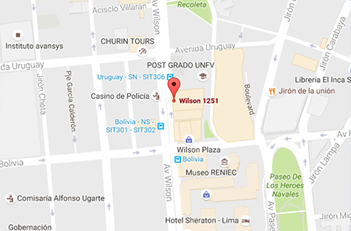
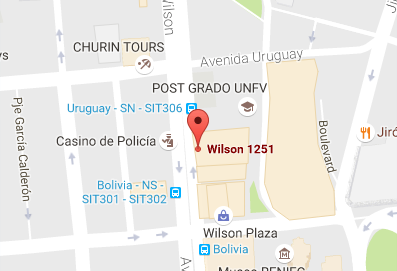
cambios...
cambios...

diff --git a/src/presentacion/VentanaContactoTienda.java b/src/presentacion/VentanaContactoTienda.java
@@ -27,9 +27,10 @@ public class VentanaContactoTienda extends JDialog {
 	private String rutaReporte;
     
 	
-	public VentanaContactoTienda(VentanaDetallesAsistente miVentanaDetallesAsistente, boolean modal,String ruta)  {
+	public VentanaContactoTienda(VentanaDetallesAsistente miVentanaDetallesAsistente, boolean modal,String ruta, String correoTienda)  {
 		
 		super(miVentanaDetallesAsistente, modal);
+		setTitle("Contacto Tienda");
 		setResizable(false);
 		
 		this.rutaReporte = ruta;
@@ -47,6 +48,7 @@ public class VentanaContactoTienda extends JDialog {
 		textFieldDest.setBounds(217, 152, 652, 32);
 		contentPanel.add(textFieldDest);
 		textFieldDest.setColumns(10);
+		textFieldDest.setText(correoTienda);
 		
 		textFieldAsunto = new JTextField();
 		textFieldAsunto.setBorder(null);
@@ -54,6 +56,7 @@ public class VentanaContactoTienda extends JDialog {
 		textFieldAsunto.setBounds(217, 236, 652, 32);
 		contentPanel.add(textFieldAsunto);
 		textFieldAsunto.setColumns(10);
+		textFieldAsunto.setText("Solicitud de "+Login.usuarioIngresado.getCorreo());
 		
 		JTextPane textPaneMensaje = new JTextPane();
 		textPaneMensaje.setBorder(null);

diff --git a/src/presentacion/VentanaAsistente.java b/src/presentacion/VentanaAsistente.java
@@ -25,6 +25,7 @@ import negocio.LeerPCGamer;
 import negocio.LeerPCHogarOficina;
 import negocio.LeerPCMarca;
 import negocio.LeerPCWorkstation;
+import negocio.ValidarRegistro;
 
 import javax.swing.ButtonGroup;
 import java.awt.event.ActionListener;
@@ -452,6 +453,9 @@ public class VentanaAsistente extends JDialog {
 		fondoPrincipal.setIcon(new ImageIcon(VentanaAsistente.class.getResource("/resources/vista-asistente4.jpg")));
 		fondoPrincipal.setBounds(0, 0, 1026, 762);
 		getContentPane().add(fondoPrincipal);
+		
+		ValidarRegistro.validarSoloNumeros(textFieldPrecioDe);
+		ValidarRegistro.validarSoloNumeros(textFieldPrecioA);
 
 	}
 	

diff --git a/src/presentacion/VentanaTiendaElegida.java b/src/presentacion/VentanaTiendaElegida.java
@@ -201,7 +201,7 @@ public class VentanaTiendaElegida extends JDialog {
 		getContentPane().add(btnElegir);
 		
 		JLabel labelMapa = new JLabel("");
-		labelMapa.setBounds(25, 459, 356, 235);
+		labelMapa.setBounds(26, 419, 397, 271);
 		labelMapa.setIcon(new ImageIcon(VentanaTiendaElegida.class.getResource("/resources/"+listaDeTiendas.get(indice).getNombre()+".png")));
 		getContentPane().add(labelMapa);
 		

diff --git a/src/negocio/Reproductor.java b/src/negocio/Reproductor.java
@@ -28,7 +28,7 @@ public class Reproductor {
          
          URL url=null;
          try {	
-        	 String rutaVideo = "D:/gg.avi";
+        	 String rutaVideo = "C:/Users/Jorge/Downloads/RantiyPC.mpg";
              url = new URL("file:///"+rutaVideo);
          } catch (MalformedURLException ex) {
              JOptionPane.showMessageDialog(null, "Error en la ruta");

diff --git a/src/negocio/ValidarRegistro.java b/src/negocio/ValidarRegistro.java
@@ -47,5 +47,16 @@ public class ValidarRegistro {
 			}
 		});
 	}
+    
+    public static void validarSoloNumeros(JTextField campo){
+		campo.addKeyListener(new KeyAdapter(){
+			public void keyTyped(KeyEvent e){
+				char c = e.getKeyChar();
+				if(!Character.isDigit(c)){
+					e.consume();
+				}
+			}
+		});
+	}
    
 }
